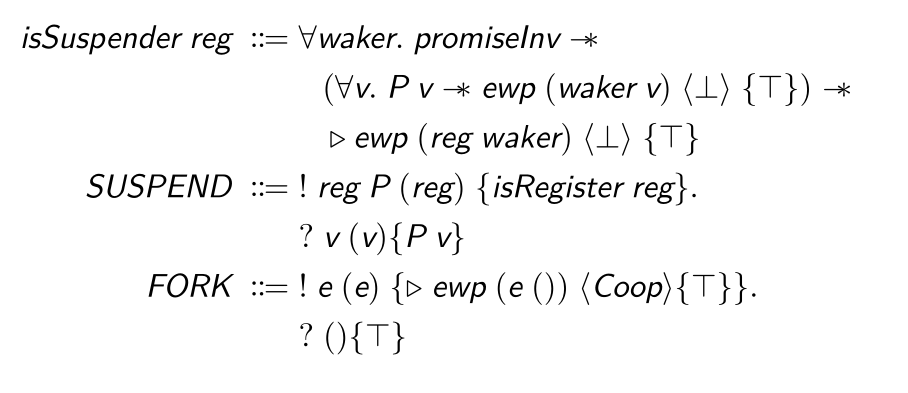
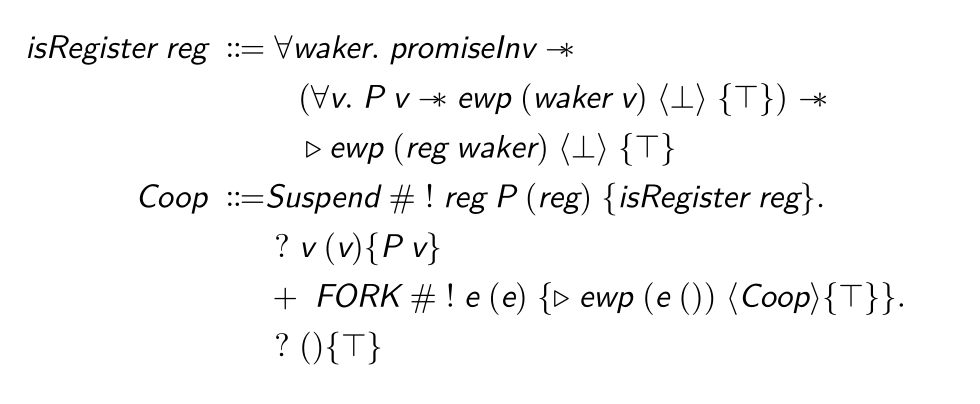
update draft up until specs of the 3 functions

diff --git a/documents/draft/main.md b/documents/draft/main.md
@@ -228,7 +228,8 @@ In the next section we show how the former is addressed by defining a unique res
 
 ## 2.2. Specifications
 
-[TODO say that logical state is based on de Vilhena's case study but Eio both allows some simplifications & necessitates less powerful specifications since fibers are more free.]
+To prove specifications for an effectful program in Hazel we have to define not only the usual ghost state constructs to track program state but also protocols which describe the behavior of the program's effects.
+We base both again on the simple cooperative concurrency scheduler case stufy from de Vilhena's dissertation.
 
 #### Protocols
 
@@ -236,32 +237,49 @@ First we look at the protocols for the `Fork` and `Suspend` effect.
 
 ![](./Eio_Protocols.png)
 
-Compared to de Vilhena's case study, `Fork` is almost the same but since promise handling is done entirely in the fiber, the scheduler does not interact with the return value so the ewp degenerates to a trivial postcondition.
+`Fork` is almost the same but since promise handling is done entirely in the fiber, the scheduler does not interact with the return value so the *ewp* degenerates to a trivial postcondition.
 
 The protocol for `Suspend` is entirely new.
 From the type of the `Suspend` effect we already know that some value can be transmitted from the party that calls the `waker` callback to the fiber that performed the effect.
 The protocol now expresses the same idea on the level of resources.
-By appropriately instantiating `P` the fiber can enforce that some condition holds before it can be signalled to resume execution. 
+By appropriately instantiating `P`, the fiber can enforce that some condition holds before it can be signalled to resume execution. 
 For example, in the `Promise.await` specification below, we ensure that the promise must be fulfilled before the effect returns by instantiating `P` with `promise_done γ`.
 
 #### Logical State
 
-The most basic ghost state we track is whether a promise is fulfilled or not.
+The most basic ghost state we track is wether a promise is fulfilled or not.
 The `promise_waiting γ` resource exists as two halves, one owned by the fiber and one by the invariant that tracks all promises.
-They can be combined when fulfilling the promise, yielding the persistent `promise_done γ` resource.
+Both halves are combined when fulfilling the promise, yielding the persistent `promise_done γ` resource.
 
-![](./Vilhena_Logical_State.png)
+```coq
+(* TODO convert to latex *)
+Definition promiseInv : iProp Σ := (
+  ∃ M, isPromiseMap M ∗
+    ([∗ map] args ↦ Φ ∈ M, let '(p, γ, ε) := args in
+      ((* Fulfilled: *) ∃ y,
+        p ↦ Done' y ∗ promise_done γ ∗ □ Φ y)
+    ∨
+      ((* Unfulfilled: *) ∃ cqs,
+        p ↦ Waiting' cqs ∗
+        is_cqs cqs ∗
+        promise_waiting γ ∗
+        resume_all_permit))
+)%I.
+  
+Definition ready (δ : gname) (k: val) : iProp Σ := (
+  EWP (k #()) {{ _, ⊤ }}
+)%I.
+```
 
 *PromiseInv* tracks the state of all existing promises, which are either *Done* or *Waiting*.
-The *Ready* predicate expresses that *k* is safe to be called on a value satisfying *Φ* under the condition that all promises and the scheduler's run queue are well-formed.
-Note that *Ready* is used both recursively to ensure that all runnable fibers are safe to execute, and mutually recursive with *PromiseInv* to ensure that all fibers waiting for a promise are safe to execute.
-If a promise is waiting it contains a list of continuations that will be invoked by the scheduler when a fiber finishes execution.
+As long as the promise is not fulfilled, it holds and an instance of CQS so that wakers can be registered along with a `resume_all_permit`. 
+This token is used to call the `CQS.signal_all` function which must only be called once.
+When it is fulfilled it instead holds a final value `v` satisfying some predicate `Φ`.
 
-Because of this, the *Ready* predicate 
+The *Ready* predicate now just expresses that *f* is safe to be executed. 
+Compared to de Vilhena's formalization, the *Φ(v)* predicate was dropped because the scheduler does not interact with the return value of an effect, it has moved to the protocol of `Suspend` as *P(v)*.
+Both the precondition for the promise invariant and the run queue have been dropped because they are now put into Iris shareable invariants since Eio supports multi-threading.
 
-
-- The logical state of the scheduler tracks the state of all currently existing promises (across all threads) in a shareable invariant using an auth. Since promises are not handled by the scheduler anymore we can completely remove it from the scheduler's spec.
-- The `ready` predicate is a lot simplified because the queue parameter is now an invariant and can be dropped so it's not mutually recursive with is_promise anymore
 - Explain the proof of the spec of `Sched.run`
   - First explain the protocol of the Fork effect since it's the simplest, here we also need the spec of the next function.
   - Then explain the protocol of the Suspend effect and how the `waker` callback precondition is returned from the protocol, which means that doing a suspend effects waits until some user-specified condition is met.
